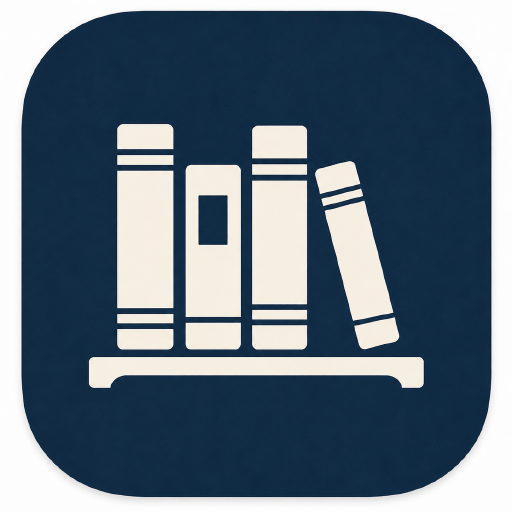
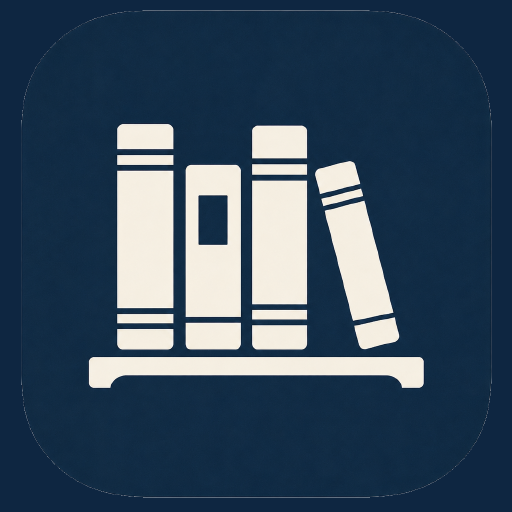
Corrige cantos brancos no ícone (full-bleed para iOS/Android)
O recorte anterior deixava pequenos triângulos brancos nos cantos
(fundo da imagem original fora do squircle), fazendo o iOS aplicar seu
próprio arredondamento por cima e sobrar canto branco. Preenche esses
cantos com a mesma cor de fundo do ícone para ficar full-bleed.

Claude-Session: https://claude.ai/code/session_014wz74X8DAF4YWS1YRBTftA

Changed region(s): [[0.0, 0.0, 1.0, 1.0]]

diff --git a/sw.js b/sw.js
@@ -1,4 +1,4 @@
-const CACHE_NAME = 'meus-livros-v4';
+const CACHE_NAME = 'meus-livros-v5';
 const ASSETS = [
   './',
   './index.html',